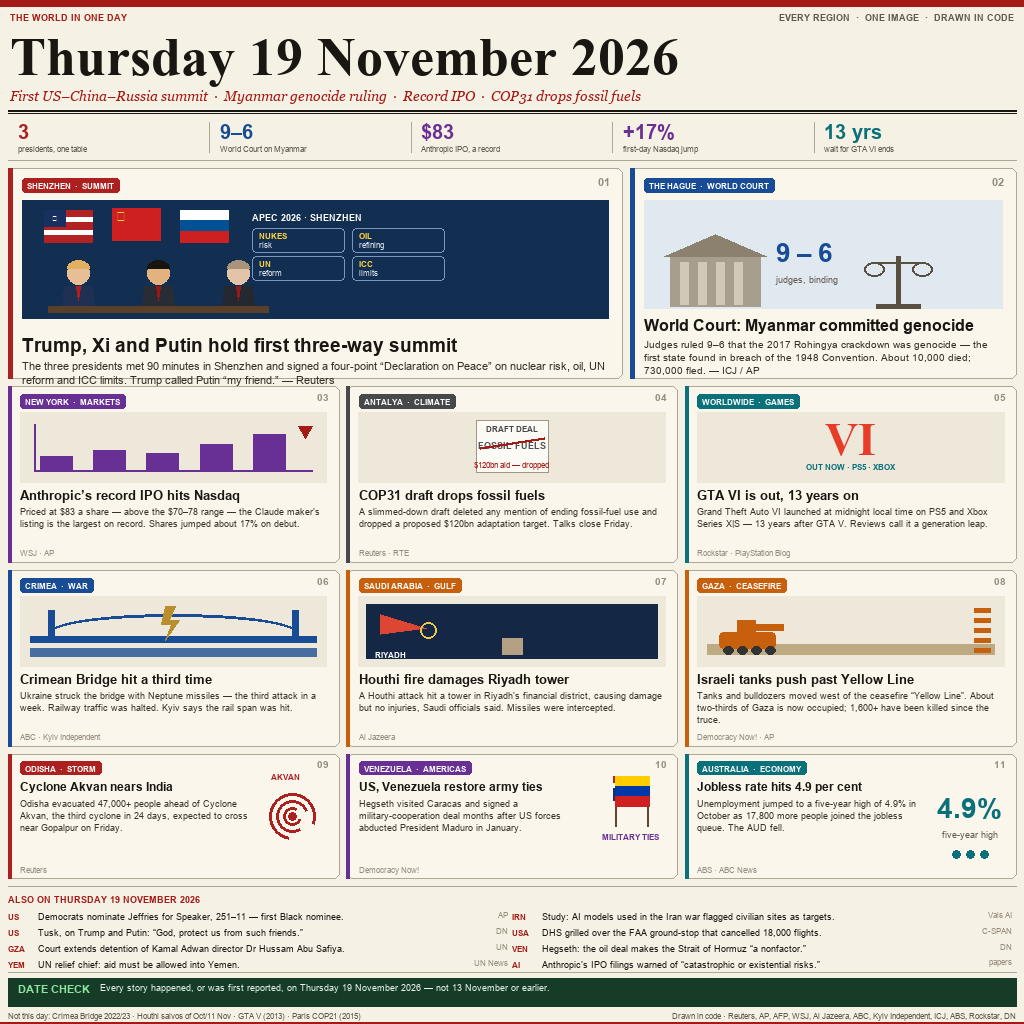
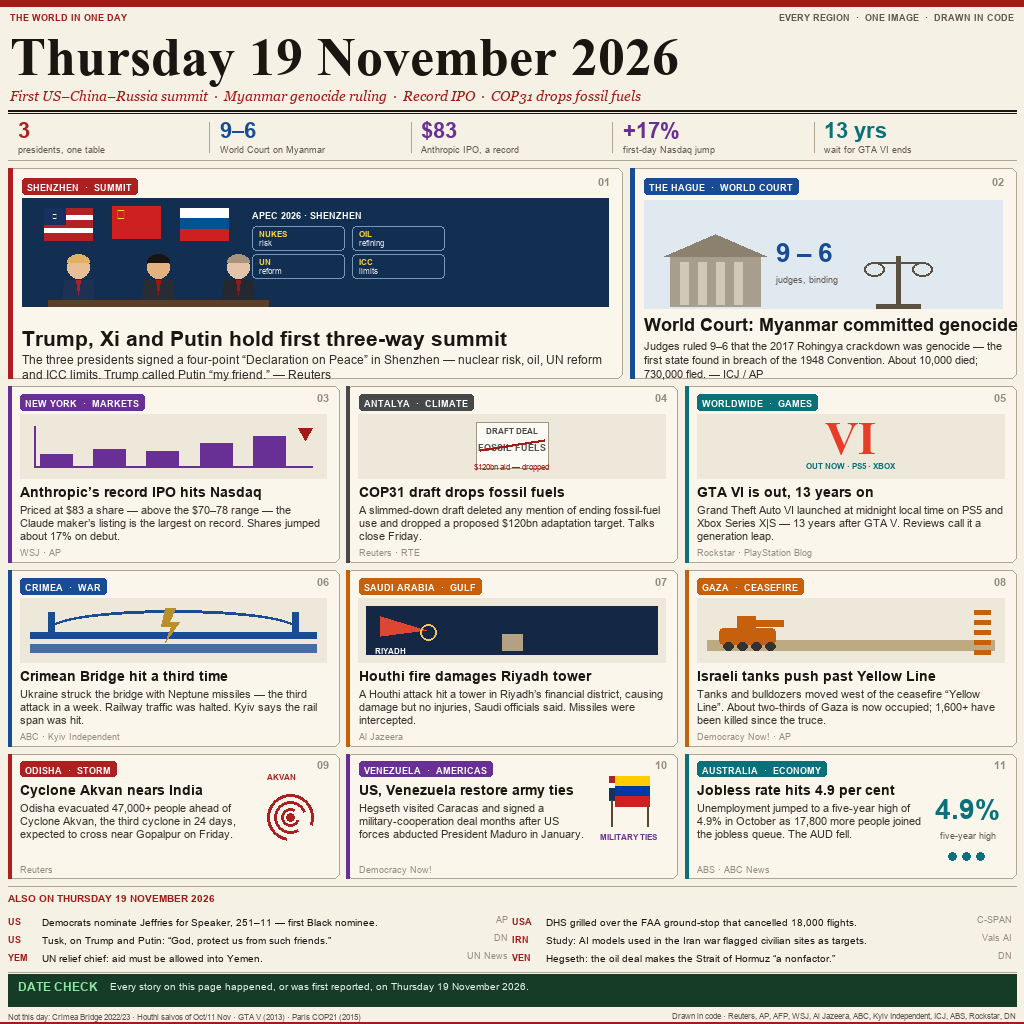
Larger type for 300px legibility

diff --git a/draw_entry.py b/draw_entry.py
@@ -59,10 +59,10 @@ def rrect(xy, r, fill=None, outline=None, width=1):
 def hline(y, x0=8, x1=W-8, c=RULE, w=1):
     d.rectangle([x0, y, x1, y + w - 1], fill=c)
 
-def tag(x, y, label, color, h=14):
-    w = tw(label, tSans(True, 8)) + 10
+def tag(x, y, label, color, h=16):
+    w = tw(label, tSans(True, 9)) + 10
     rrect([x, y, x + w, y + h], 3, fill=color)
-    text((x + 5, y + 3), label, tSans(True, 8), (255, 255, 255))
+    text((x + 5, y + 4), label, tSans(True, 9), (255, 255, 255))
     return w
 
 # ---------------------------------------------------------------- header
@@ -90,8 +90,8 @@ for i, (num, lab, col) in enumerate(stats):
     x0 = sx + i * sw
     if i:
         d.rectangle([x0, 122, x0, 152], fill=RULE)
-    text((x0 + 10, 120), num, tSans(True, 20), col)
-    text((x0 + 10, 144), lab, tSans(False, 8), MUTED)
+    text((x0 + 10, 118), num, tSans(True, 22), col)
+    text((x0 + 10, 144), lab, tSans(False, 9), MUTED)
 
 hline(160)
 
@@ -128,8 +128,8 @@ d.rectangle([lx0, ly0, lx0+4, ly1], fill=ASIA)
 tag(lx0+14, ly0+10, "SHENZHEN  ·  SUMMIT", ASIA)
 text((lx1-12, ly0+10), "01", tSans(True, 11), FAINT, anchor="rt")
 
-ay = ly0 + 32
-d.rectangle([lx0+14, ay, lx1-14, ay+118], fill=NAVY)
+ay = ly0 + 30
+d.rectangle([lx0+14, ay, lx1-14, ay+108], fill=NAVY)
 fw, fh = 48, 32
 flag_us(lx0+36,  ay+10, fw, fh)
 flag_cn(lx0+104, ay+8,  fw, fh)
@@ -143,20 +143,20 @@ for i, (a, b) in enumerate(chips):
     text((cx+7, cy+3), a, tSans(True, 8), (255,214,64))
     text((cx+7, cy+12), b, tSans(False, 8), (220,228,240))
 
-lb = ay + 108
+lb = ay + 104
 leader(lx0+70,  lb, (232, 190, 150), (226, 176, 96), (30, 48, 84), (180, 30, 30))
 leader(lx0+150, lb, (226, 178, 128), (24, 20, 16),   (40, 44, 52), (160, 20, 20))
 leader(lx0+230, lb, (228, 196, 168), (168, 148, 120), (36, 40, 48), (150, 24, 24))
 d.rectangle([lx0+40, lb-2, lx0+260, lb+4], fill=(90, 64, 40))
 # names live in the headline; labels under the figures fell outside the navy box
 
-hy = ay + 134
-text((lx0+14, hy), "Trump, Xi and Putin hold first three-way summit", tSans(True, 19), INK)
-body = ("The three presidents met 90 minutes in Shenzhen and signed a four-point “Declaration on Peace” "
-        "on nuclear risk, oil, UN reform and ICC limits. Trump called Putin “my friend.” — Reuters")
-by = hy + 26
-for i, ln in enumerate(wrap(body, tSans(False, 10.5), lx1-lx0-28)):
-    text((lx0+14, by + i*14), ln, tSans(False, 10.5), (52, 46, 40))
+hy = ay + 128
+text((lx0+14, hy), "Trump, Xi and Putin hold first three-way summit", tSans(True, 21), INK)
+body = ("The three presidents signed a four-point “Declaration on Peace” in Shenzhen — "
+        "nuclear risk, oil, UN reform and ICC limits. Trump called Putin “my friend.” — Reuters")
+by = hy + 27
+for i, ln in enumerate(wrap(body, tSans(False, 11.5), lx1-lx0-28)):
+    text((lx0+14, by + i*15), ln, tSans(False, 11.5), (52, 46, 40))
 
 # ---------------------------------------------------------------- lead — ICJ
 rx0, ry0, rx1, ry1 = 630, 168, 1016, 378
@@ -180,12 +180,12 @@ d.line([scx-26, scy+6, scx+26, scy+6], fill=(90, 80, 66), width=2)
 d.ellipse([scx-34, scy+6, scx-14, scy+20], outline=(90, 80, 66), width=2)
 d.ellipse([scx+14, scy+6, scx+34, scy+20], outline=(90, 80, 66), width=2)
 
-text((rx0+14, ry0+148), "World Court: Myanmar committed genocide", tSans(True, 16), INK)
+text((rx0+14, ry0+146), "World Court: Myanmar committed genocide", tSans(True, 18), INK)
 body2 = ("Judges ruled 9–6 that the 2017 Rohingya crackdown was genocide — the first state found "
          "in breach of the 1948 Convention. About 10,000 died; 730,000 fled. — ICJ / AP")
-by2 = ry0 + 170
-for i, ln in enumerate(wrap(body2, tSans(False, 10), rx1-rx0-28)):
-    text((rx0+14, by2 + i*13), ln, tSans(False, 10), (52, 46, 40))
+by2 = ry0 + 172
+for i, ln in enumerate(wrap(body2, tSans(False, 11), rx1-rx0-28)):
+    text((rx0+14, by2 + i*14), ln, tSans(False, 11), (52, 46, 40))
 
 # ---------------------------------------------------------------- icons
 def ic_chart(x, y, w, h, c):
@@ -264,18 +264,18 @@ def story(x0, y0, x1, y1, num, region, color, headline, body, src, icon):
     card(x0, y0, x1, y1)
     d.rectangle([x0, y0, x0+3, y1], fill=color)
     tag(x0+12, y0+8, region, color)
-    text((x1-10, y0+8), num, tSans(True, 10), FAINT, anchor="rt")
-    iz = (x0+12, y0+26, x1-12, y0+96)
+    text((x1-10, y0+8), num, tSans(True, 11), FAINT, anchor="rt")
+    iz = (x0+12, y0+28, x1-12, y0+92)
     d.rectangle([iz[0], iz[1], iz[2], iz[3]], fill=(238, 232, 218))
     icon(iz[0], iz[1], iz[2]-iz[0], iz[3]-iz[1], color)
-    text((x0+12, y0+102), headline, tSans(True, 12.5), INK)
-    yy = y0 + 120
-    for i, ln in enumerate(wrap(body, tSans(False, 9), x1-x0-24)):
-        if yy + 12 > y1 - 16:
+    text((x0+12, y0+98), headline, tSans(True, 14), INK)
+    yy = y0 + 118
+    for i, ln in enumerate(wrap(body, tSans(False, 10.5), x1-x0-24)):
+        if yy + 13 > y1 - 18:
             break
-        text((x0+12, yy), ln, tSans(False, 9), (56, 50, 44))
-        yy += 12
-    text((x0+12, y1-14), src, tSans(False, 8), FAINT)
+        text((x0+12, yy), ln, tSans(False, 10.5), (56, 50, 44))
+        yy += 13
+    text((x0+12, y1-15), src, tSans(False, 9), FAINT)
 
 cw = (W - 16 - 16) / 3
 xs = [8, 8 + cw + 8, 8 + 2*(cw + 8)]
@@ -318,17 +318,17 @@ h3 = gy1c - gy0c
 def story_s(x0, y0, x1, y1, num, region, color, headline, body, src, icon):
     card(x0, y0, x1, y1)
     d.rectangle([x0, y0, x0+3, y1], fill=color)
-    tag(x0+12, y0+7, region, color, h=13)
-    text((x1-10, y0+7), num, tSans(True, 10), FAINT, anchor="rt")
-    icon(x1-80, y0+10, 68, h3-20, color)
-    text((x0+12, y0+26), headline, tSans(True, 12), INK)
-    yy = y0 + 44
-    for i, ln in enumerate(wrap(body, tSans(False, 9), x1-x0-98)):
-        if yy + 11 > y1 - 16:
+    tag(x0+12, y0+7, region, color, h=15)
+    text((x1-10, y0+7), num, tSans(True, 11), FAINT, anchor="rt")
+    icon(x1-84, y0+10, 72, h3-18, color)
+    text((x0+12, y0+28), headline, tSans(True, 13.5), INK)
+    yy = y0 + 48
+    for i, ln in enumerate(wrap(body, tSans(False, 10.5), x1-x0-100)):
+        if yy + 13 > y1 - 18:
             break
-        text((x0+12, yy), ln, tSans(False, 9), (56, 50, 44))
-        yy += 12
-    text((x0+12, y1-13), src, tSans(False, 8), FAINT)
+        text((x0+12, yy), ln, tSans(False, 10.5), (56, 50, 44))
+        yy += 13
+    text((x0+12, y1-14), src, tSans(False, 9), FAINT)
 
 story_s(xs[0], gy0c, xs[0]+cw, gy1c, "09", "ODISHA  ·  STORM", ASIA,
         "Cyclone Akvan nears India",
@@ -347,39 +347,37 @@ story_s(xs[2], gy0c, xs[2]+cw, gy1c, "11", "AUSTRALIA  ·  ECONOMY", OCEANIA,
 
 # ---------------------------------------------------------------- ticker
 hline(886)
-text((8, 894), "ALSO ON THURSDAY 19 NOVEMBER 2026", tSans(True, 9), RED)
+text((8, 892), "ALSO ON THURSDAY 19 NOVEMBER 2026", tSans(True, 10), RED)
 
 tick = [
     ("US",  "Democrats nominate Jeffries for Speaker, 251–11 — first Black nominee.", "AP"),
     ("US",  "Tusk, on Trump and Putin: “God, protect us from such friends.”", "DN"),
-    ("GZA", "Court extends detention of Kamal Adwan director Dr Hussam Abu Safiya.", "UN"),
     ("YEM", "UN relief chief: aid must be allowed into Yemen.", "UN News"),
-    ("IRN", "Study: AI models used in the Iran war flagged civilian sites as targets.", "Vals AI"),
     ("USA", "DHS grilled over the FAA ground-stop that cancelled 18,000 flights.", "C-SPAN"),
+    ("IRN", "Study: AI models used in the Iran war flagged civilian sites as targets.", "Vals AI"),
     ("VEN", "Hegseth: the oil deal makes the Strait of Hormuz “a nonfactor.”", "DN"),
-    ("AI",  "Anthropic’s IPO filings warned of “catastrophic or existential risks.”", "papers"),
 ]
 colw = (W - 16) / 2
 for i, (pl, tx, src) in enumerate(tick):
-    col, row = divmod(i, 4)
+    col, row = divmod(i, 3)
     x = 8 + col * colw
-    y = 912 + row * 16
-    text((x, y), pl, tSans(True, 8), RED)
-    text((x + 30, y), tx, tSans(False, 8.5), INK)
-    text((x + colw - 4, y), src, tSans(False, 8), FAINT, anchor="rt")
+    y = 916 + row * 18
+    text((x, y), pl, tSans(True, 9), RED)
+    text((x + 34, y), tx, tSans(False, 10), INK)
+    text((x + colw - 4, y), src, tSans(False, 9), FAINT, anchor="rt")
 
 hline(972)
 
 # ---------------------------------------------------------------- date check
-d.rectangle([8, 978, W-8, 1006], fill=(22, 60, 40))
-text((18, 983), "DATE CHECK", tSans(True, 11), (140, 230, 160))
-text((100, 983), "Every story happened, or was first reported, on Thursday 19 November 2026 — not 13 November or earlier.",
-     tSans(False, 8.5), (230, 244, 232))
+d.rectangle([8, 974, W-8, 1006], fill=(22, 60, 40))
+text((18, 980), "DATE CHECK", tSans(True, 12), (140, 230, 160))
+text((110, 980), "Every story on this page happened, or was first reported, on Thursday 19 November 2026.",
+     tSans(False, 10), (230, 244, 232))
 
 text((8, 1012), "Not this day: Crimea Bridge 2022/23 · Houthi salvos of Oct/11 Nov · GTA V (2013) · Paris COP21 (2015)",
-     tSans(False, 7.5), MUTED)
+     tSans(False, 8), MUTED)
 text((W-8, 1012), "Drawn in code · Reuters, AP, AFP, WSJ, Al Jazeera, ABC, Kyiv Independent, ICJ, ABS, Rockstar, DN",
-     tSans(False, 7.5), MUTED, anchor="rt")
+     tSans(False, 8), MUTED, anchor="rt")
 
 d.rectangle([0, H-2, W, H], fill=RED)
 
